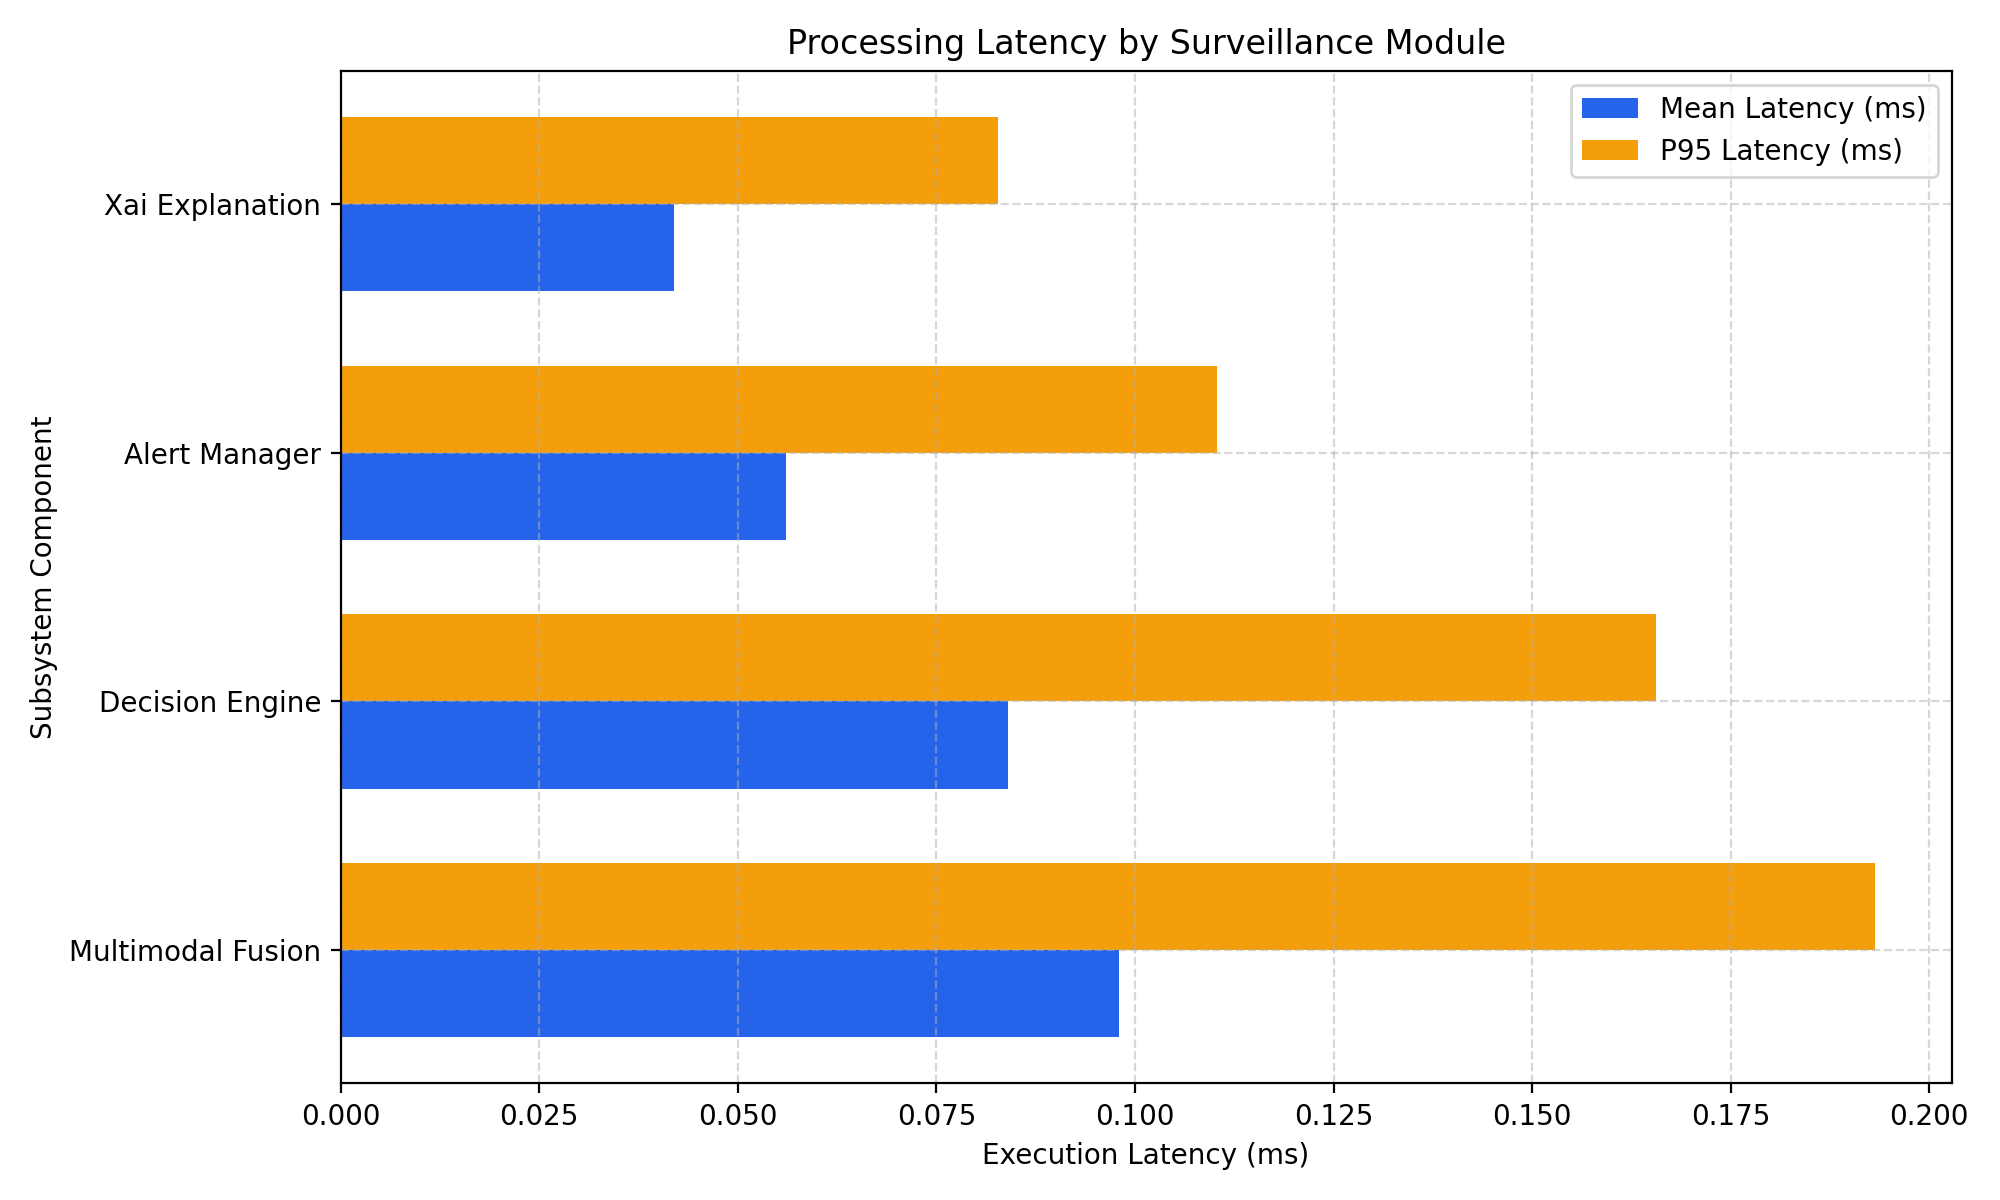
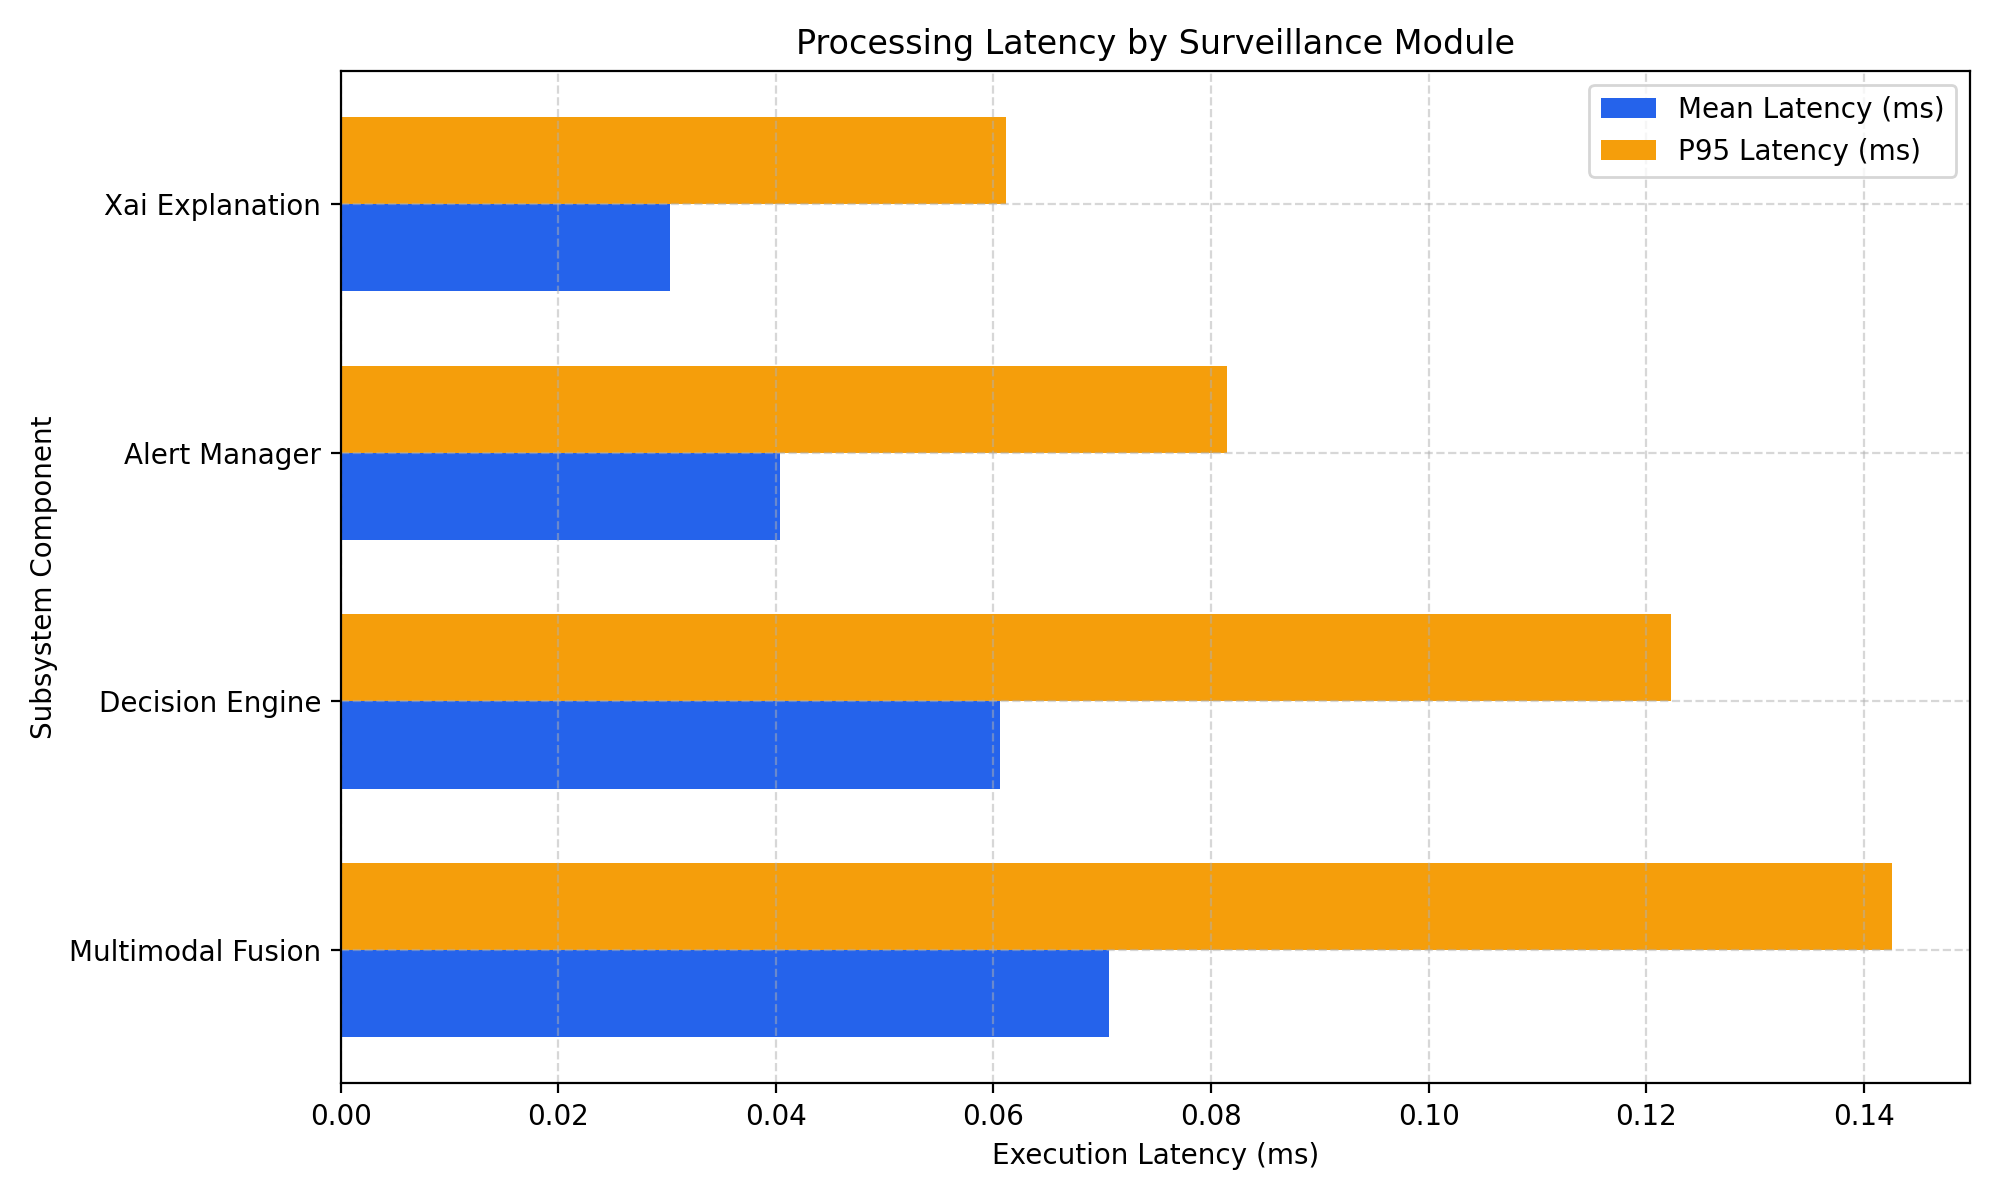
fix(dashboard): use width stretch in video streaming loop to prevent buffer overflow

diff --git a/src/dashboard/dashboard_app.py b/src/dashboard/dashboard_app.py
@@ -6,6 +6,9 @@ Provides an interactive operator terminal supporting live pipeline streaming,
 operator alert lifecycle actions, and deterministic 5-scenario demo mode.
 """
 
+import warnings
+warnings.filterwarnings("ignore")
+
 from datetime import datetime, timedelta, timezone
 from pathlib import Path
 import time
@@ -604,11 +607,18 @@ def main() -> None:
                             risk_state = safety_res.status.value
 
                             # Display large full-width image
-                            video_box.image(
-                                annotated_rgb,
-                                caption=f"Frame #{frame_num} | Live Stream Rate: {live_fps:.1f} FPS | Active Tracks: {len(tracks)} | Risk: {risk_state}",
-                                use_container_width=True,
-                            )
+                            try:
+                                video_box.image(
+                                    annotated_rgb,
+                                    caption=f"Frame #{frame_num} | Live Stream Rate: {live_fps:.1f} FPS | Active Tracks: {len(tracks)} | Risk: {risk_state}",
+                                    width="stretch",
+                                )
+                            except TypeError:
+                                video_box.image(
+                                    annotated_rgb,
+                                    caption=f"Frame #{frame_num} | Live Stream Rate: {live_fps:.1f} FPS | Active Tracks: {len(tracks)} | Risk: {risk_state}",
+                                    use_container_width=True,
+                                )
 
                             # Throttle metrics DOM update every 6 frames or on alert change to prevent browser DOM thrashing
                             if frame_num % 6 == 0 or is_emergency != prev_fight:

diff --git a/reports/evaluation/final_evaluation.md b/reports/evaluation/final_evaluation.md
@@ -1,6 +1,6 @@
 # Academic Evaluation & Benchmarking Report
 **System**: Real-Time Crowd Anomaly Detection with Predictive Alerts  
-**Evaluation Date**: 2026-09-13T11:38:04.186625+00:00  
+**Evaluation Date**: 2026-10-05T13:20:02.870187+00:00  
 **Configured Dataset**: `ControlledSyntheticDataset`  
 **Ground Truth Status**: ⚪ NOT CONFIGURED (Synthetic Provenance Only)
 
@@ -15,20 +15,20 @@
 
 | Pipeline Stage | Samples | Mean Latency (ms) | Median Latency (ms) | P95 Latency (ms) | Max Latency (ms) |
 | :--- | :--- | :--- | :--- | :--- | :--- |
-| **multimodal_fusion** | 13 | 0.098 | 0.092 | 0.193 | 0.259 |
-| **decision_engine** | 13 | 0.084 | 0.079 | 0.166 | 0.222 |
-| **alert_manager** | 13 | 0.056 | 0.053 | 0.110 | 0.148 |
-| **xai_explanation** | 13 | 0.042 | 0.039 | 0.083 | 0.111 |
+| **multimodal_fusion** | 13 | 0.071 | 0.063 | 0.143 | 0.162 |
+| **decision_engine** | 13 | 0.061 | 0.054 | 0.122 | 0.139 |
+| **alert_manager** | 13 | 0.040 | 0.036 | 0.081 | 0.092 |
+| **xai_explanation** | 13 | 0.030 | 0.027 | 0.061 | 0.069 |
 
-**Effective Full-Pipeline FPS**: **3570.55 FPS** (Mean Frame Latency: 0.28 ms)
+**Effective Full-Pipeline FPS**: **4953.32 FPS** (Mean Frame Latency: 0.20 ms)
 
 ## Table 2: Sensor Modality Ablation Study
 
 | Configuration | Sensor Availability | Mean Score | Alert Count | Emergency Count | Mean Latency (ms) | Corroboration Rate |
 | :--- | :--- | :--- | :--- | :--- | :--- | :--- |
-| **Video Only** | Video 100% | Audio 0% | 0.210 | 1 | 1 | 0.11 | 0.00 |
-| **Audio Only** | Video 0% | Audio 100% | 0.193 | 0 | 0 | 0.06 | 0.00 |
-| **Multimodal Fusion** | Video 100% | Audio 100% | 0.210 | 1 | 1 | 0.10 | **0.40** |
+| **Video Only** | Video 100% | Audio 0% | 0.210 | 1 | 1 | 0.06 | 0.00 |
+| **Audio Only** | Video 0% | Audio 100% | 0.193 | 0 | 0 | 0.04 | 0.00 |
+| **Multimodal Fusion** | Video 100% | Audio 100% | 0.210 | 1 | 1 | 0.05 | **0.40** |
 
 *Findings*: Multimodal fusion demonstrates cross-modal corroboration synergy during critical incidents and suppression of isolated acoustic and visual spikes, providing enhanced operational decision stability.
 
@@ -54,18 +54,18 @@
 | Scenario ID | Scenario Name | Expected Behavior | Observed State | Score | Alert Severity | Latency (ms) | Status |
 | :--- | :--- | :--- | :--- | :--- | :--- | :--- | :--- |
 | `SCEN-01` | Normal Crowd | Maintain NORMAL state without alert dispatch | `NORMAL` | 0.07 | `NONE` | 0.19 | **PASS** |
-| `SCEN-02` | Moderate Crowding | Remain within NORMAL or escalate smoothly to SUSPICIOUS | `NORMAL` | 0.17 | `NONE` | 0.17 | **PASS** |
-| `SCEN-03` | Rapid Movement | Escalate to SUSPICIOUS on crowd dispersal | `SUSPICIOUS` | 0.50 | `WARNING` | 0.43 | **PASS** |
-| `SCEN-04` | Suspicious Behavior | Sustain SUSPICIOUS state with elevated confidence | `SUSPICIOUS` | 0.55 | `WARNING` | 0.30 | **PASS** |
-| `SCEN-05` | Physical Struggle | Escalate to HIGH_RISK or EMERGENCY alert | `EMERGENCY` | 0.86 | `CRITICAL` | 0.74 | **PASS** |
-| `SCEN-06` | Audio Distress | Detect acoustic scream distress without visual fight | `SUSPICIOUS` | 0.50 | `WARNING` | 0.29 | **PASS** |
-| `SCEN-07` | Video-only Anomaly | Escalate safely on unimodal video stream | `HIGH_RISK` | 0.82 | `HIGH` | 0.26 | **PASS** |
-| `SCEN-08` | Audio-only Anomaly | Escalate safely on unimodal acoustic feed | `HIGH_RISK` | 0.72 | `WARNING` | 0.26 | **PASS** |
-| `SCEN-09` | Multimodal Corroboration | Corroborate cross-modal cues and accelerate escalation | `EMERGENCY` | 1.00 | `CRITICAL` | 0.38 | **PASS** |
-| `SCEN-10` | Conflicting Modalities | Suppress isolated audio spike due to calm crowd context | `NORMAL` | 0.18 | `NONE` | 0.11 | **PASS** |
-| `SCEN-11` | Stampede Outbreak | Immediate emergency escalation with CRITICAL alert | `EMERGENCY` | 1.00 | `CRITICAL` | 0.28 | **PASS** |
-| `SCEN-12` | Sensor Dropout | Maintain safe default baseline without system crash | `NORMAL` | 0.10 | `NONE` | 0.15 | **PASS** |
-| `SCEN-13` | Recovery | Transition through RECOVERY stabilization before clearing to NORMAL | `NORMAL` | 0.20 | `NONE` | 0.07 | **PASS** |
+| `SCEN-02` | Moderate Crowding | Remain within NORMAL or escalate smoothly to SUSPICIOUS | `NORMAL` | 0.17 | `NONE` | 0.09 | **PASS** |
+| `SCEN-03` | Rapid Movement | Escalate to SUSPICIOUS on crowd dispersal | `SUSPICIOUS` | 0.50 | `WARNING` | 0.18 | **PASS** |
+| `SCEN-04` | Suspicious Behavior | Sustain SUSPICIOUS state with elevated confidence | `SUSPICIOUS` | 0.55 | `WARNING` | 0.15 | **PASS** |
+| `SCEN-05` | Physical Struggle | Escalate to HIGH_RISK or EMERGENCY alert | `EMERGENCY` | 0.86 | `CRITICAL` | 0.16 | **PASS** |
+| `SCEN-06` | Audio Distress | Detect acoustic scream distress without visual fight | `SUSPICIOUS` | 0.50 | `WARNING` | 0.28 | **PASS** |
+| `SCEN-07` | Video-only Anomaly | Escalate safely on unimodal video stream | `HIGH_RISK` | 0.82 | `HIGH` | 0.25 | **PASS** |
+| `SCEN-08` | Audio-only Anomaly | Escalate safely on unimodal acoustic feed | `HIGH_RISK` | 0.72 | `WARNING` | 0.46 | **PASS** |
+| `SCEN-09` | Multimodal Corroboration | Corroborate cross-modal cues and accelerate escalation | `EMERGENCY` | 1.00 | `CRITICAL` | 0.37 | **PASS** |
+| `SCEN-10` | Conflicting Modalities | Suppress isolated audio spike due to calm crowd context | `NORMAL` | 0.18 | `NONE` | 0.09 | **PASS** |
+| `SCEN-11` | Stampede Outbreak | Immediate emergency escalation with CRITICAL alert | `EMERGENCY` | 1.00 | `CRITICAL` | 0.26 | **PASS** |
+| `SCEN-12` | Sensor Dropout | Maintain safe default baseline without system crash | `NORMAL` | 0.10 | `NONE` | 0.09 | **PASS** |
+| `SCEN-13` | Recovery | Transition through RECOVERY stabilization before clearing to NORMAL | `NORMAL` | 0.20 | `NONE` | 0.05 | **PASS** |
 
 ## Table 5: Threshold Sensitivity Analysis
 
@@ -87,11 +87,11 @@
 
 ## Memory & Resource Consumption
 
-- **Initial RSS Memory**: 285.86 MB
-- **Peak RSS Memory**: 285.86 MB
-- **Final RSS Memory**: 285.86 MB
+- **Initial RSS Memory**: 286.13 MB
+- **Peak RSS Memory**: 286.13 MB
+- **Final RSS Memory**: 286.13 MB
 - **Memory Delta**: 0.00 MB
-- **CPU Utilization**: 56.4%
+- **CPU Utilization**: 39.8%
 - **Bounded History Invariant**: `VERIFIED` (Zero unbounded growth)
 
 ## Validated Academic Claims
